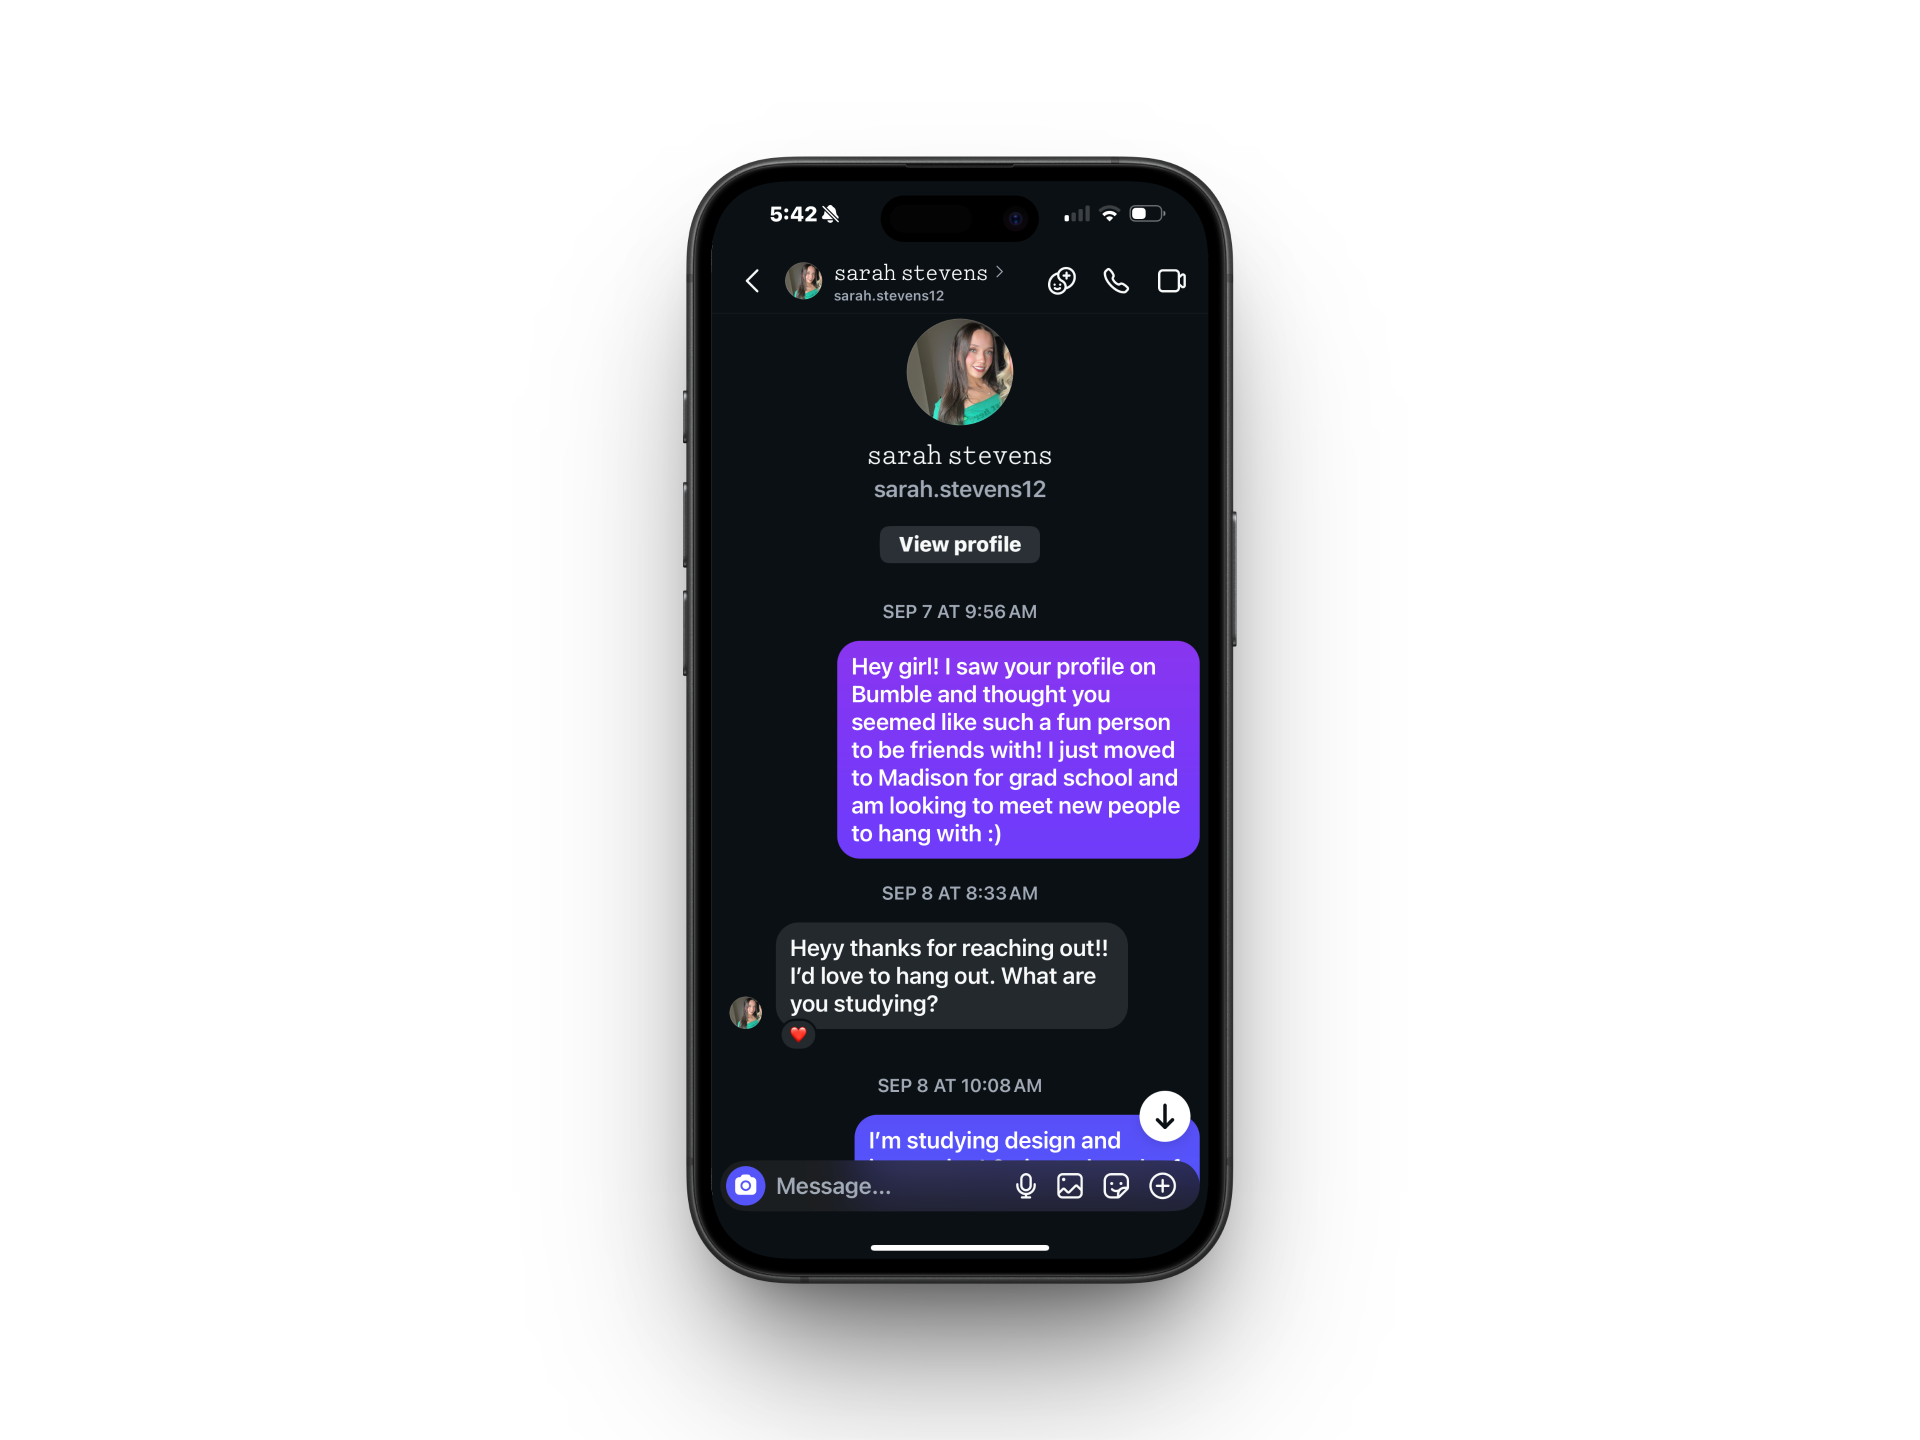
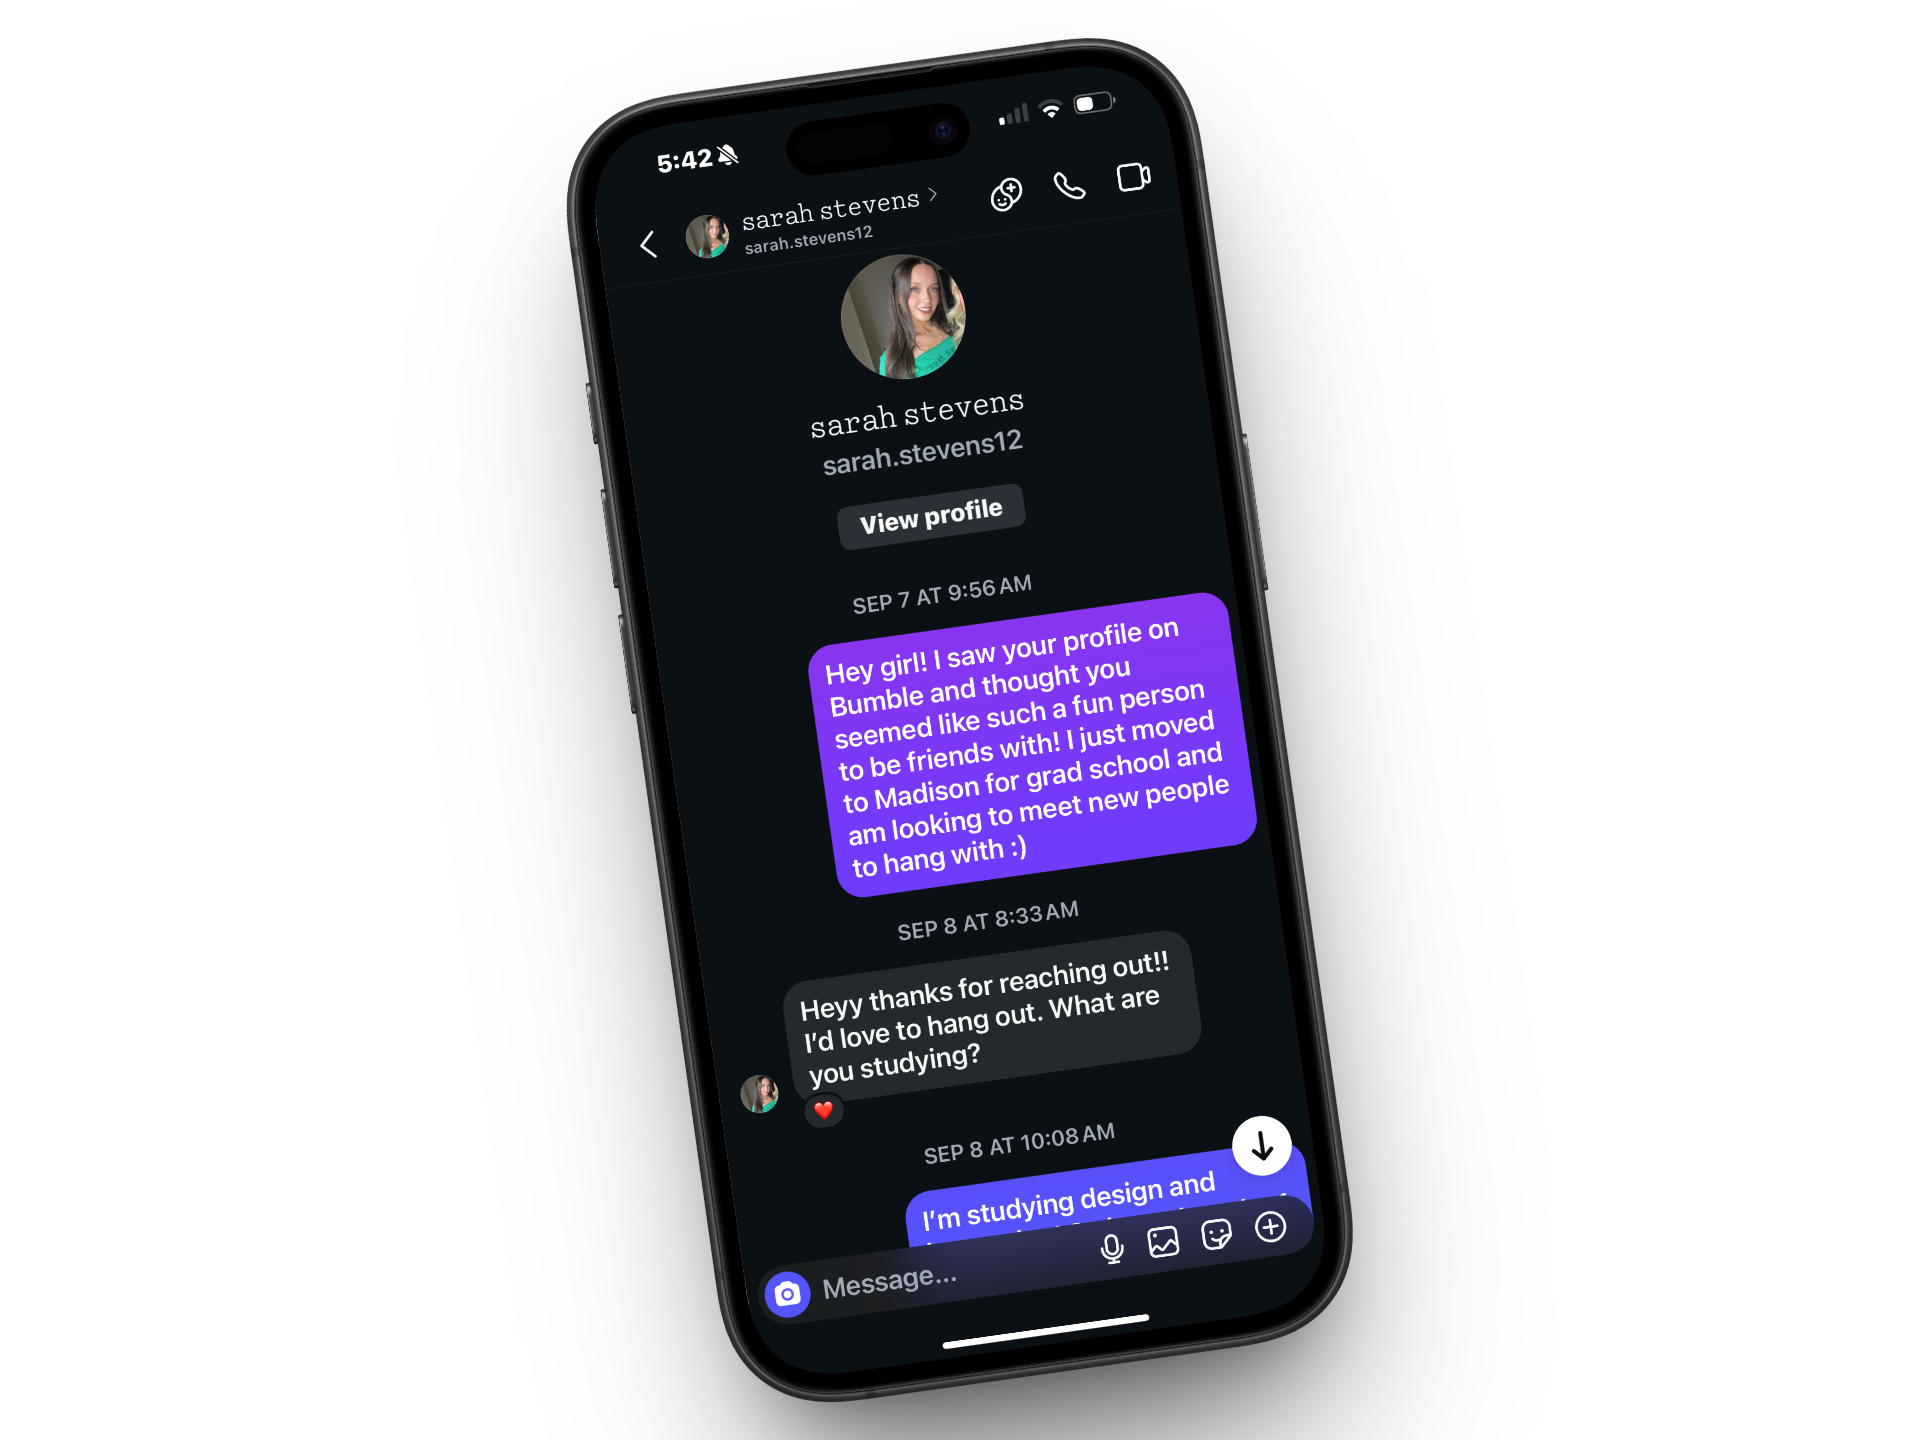
Swap in new BFF assets: polished OOH photos, floating phone renders
- Billboard and bus wrap images replaced with polished versions (both
  now consistently read "Find your group chat IRL," fixing the
  remaining "yur" typo everywhere, including the reflection copy).
- Phone screenshots replaced with transparent floating-phone renders
  (no background/border box needed) -- the Instagram DM with Sarah and
  a combined two-up render of the Megan/Lexi matches, replacing the
  separate boxed screenshots.
- Birthday photo capped at max-w-md instead of full section width, and
  the yellow name-tag pins moved down to shoulder level so they no
  longer sit on top of anyone's face.

Changed region(s): [[0.2812, 0.0, 0.75, 1.0], [0.5312, 0.1875, 0.5625, 0.2188]]

diff --git a/src/components/bumble/MyStorySection.tsx b/src/components/bumble/MyStorySection.tsx
@@ -3,26 +3,22 @@ import { Reveal } from '@/components/ui/Reveal'
 import { Lightbox } from '@/components/ui/Lightbox'
 import { cn } from '@/lib/utils'
 import instagramSarah from '@/assets/images/projects/bumble-bff-concept/proof-instagram-sarah.png'
-import friendMegan from '@/assets/images/projects/bumble-bff-concept/proof-friend-megan.png'
-import friendLexi from '@/assets/images/projects/bumble-bff-concept/proof-friend-lexi.png'
+import friends from '@/assets/images/projects/bumble-bff-concept/proof-friends.png'
 import birthday from '@/assets/images/projects/bumble-bff-concept/proof-birthday.jpg'
 
 const imageById: Record<string, string> = {
   'instagram-sarah': instagramSarah,
-  'friend-megan': friendMegan,
-  'friend-lexi': friendLexi,
+  friends: friends,
 }
 
 type Story = (typeof bumbleConcept)['myStory']
 
 function BeatImages({ images }: { images: string[] }) {
   return (
-    <div className={cn('flex gap-3', images.length > 1 && 'flex-row')}>
+    <div className="mx-auto flex max-w-sm justify-center">
       {images.map((id) => (
         <Lightbox key={id} src={imageById[id]} alt="">
-          <div className="overflow-hidden rounded-2xl border border-line shadow-[0_20px_50px_rgba(0,0,0,0.35)]">
-            <img src={imageById[id]} alt="" className="h-auto w-full" loading="lazy" />
-          </div>
+          <img src={imageById[id]} alt="" className="h-auto w-full" loading="lazy" />
         </Lightbox>
       ))}
     </div>
@@ -56,7 +52,7 @@ export function MyStorySection({ story }: { story: Story }) {
               >
                 <div className="md:w-1/2">
                   <BeatImages images={beat.images} />
-                  <p className="mt-3 text-xs text-fg-muted">{beat.caption}</p>
+                  <p className="mt-3 text-center text-xs text-fg-muted">{beat.caption}</p>
                 </div>
                 <div className="md:w-1/2">
                   <p className="text-base leading-relaxed text-fg-muted sm:text-lg">{beat.text}</p>
@@ -75,18 +71,18 @@ export function MyStorySection({ story }: { story: Story }) {
         </div>
 
         <Reveal delay={0.1}>
-          <div className="flex flex-col gap-3">
+          <div className="mx-auto flex max-w-md flex-col gap-3">
             <div className="relative overflow-hidden rounded-3xl border border-line shadow-[0_30px_70px_rgba(0,0,0,0.4)]">
               <img src={birthday} alt={story.finale.caption} className="h-auto w-full" loading="lazy" />
               {story.finale.tags.map((tag, index) => (
                 <div
                   key={index}
-                  className="group absolute -translate-x-1/2 -translate-y-1/2"
+                  className="absolute -translate-x-1/2 -translate-y-1/2"
                   style={{ left: `${tag.xPct}%`, top: `${tag.yPct}%` }}
                 >
-                  <span className="absolute left-1/2 top-1/2 h-4 w-4 -translate-x-1/2 -translate-y-1/2 animate-ping rounded-full bg-acid/60" />
-                  <span className="relative block h-4 w-4 rounded-full border-2 border-ink bg-acid shadow-[0_0_0_2px_rgba(166,255,77,0.4)]" />
-                  <span className="absolute left-1/2 top-full mt-1.5 -translate-x-1/2 whitespace-nowrap rounded-full bg-acid px-2.5 py-1 font-mono text-[10px] font-bold uppercase tracking-wider text-ink shadow-[0_4px_12px_rgba(0,0,0,0.3)]">
+                  <span className="absolute left-1/2 top-1/2 h-3 w-3 -translate-x-1/2 -translate-y-1/2 animate-ping rounded-full bg-acid/60" />
+                  <span className="relative block h-3 w-3 rounded-full border-2 border-ink bg-acid shadow-[0_0_0_2px_rgba(166,255,77,0.4)]" />
+                  <span className="absolute left-1/2 top-full mt-2 -translate-x-1/2 whitespace-nowrap rounded-full bg-acid px-2 py-0.5 font-mono text-[9px] font-bold uppercase tracking-wider text-ink shadow-[0_4px_12px_rgba(0,0,0,0.3)]">
                     {tag.name}
                   </span>
                 </div>

diff --git a/src/data/bumbleConcept.ts b/src/data/bumbleConcept.ts
@@ -12,7 +12,7 @@ export const bumbleConcept = {
       },
       {
         text: 'Through BFF I also met a handful of other amazing women, like Megan and Lexi, who I still go out with regularly. I still open the app to meet more people like them.',
-        images: ['friend-megan', 'friend-lexi'],
+        images: ['friends'],
         caption: 'Two of the friends I matched and connected with',
       },
     ],
@@ -24,11 +24,11 @@ export const bumbleConcept = {
       image: 'birthday',
       caption: 'My birthday, surrounded by the friends Bumble BFF gave me.',
       tags: [
-        { name: 'Name?', xPct: 8, yPct: 42 },
-        { name: 'Name?', xPct: 22, yPct: 45 },
-        { name: 'Name?', xPct: 58, yPct: 38 },
-        { name: 'Name?', xPct: 70, yPct: 35 },
-        { name: 'Name?', xPct: 84, yPct: 32 },
+        { name: 'Name?', xPct: 6, yPct: 48 },
+        { name: 'Name?', xPct: 19, yPct: 50 },
+        { name: 'Name?', xPct: 57, yPct: 45 },
+        { name: 'Name?', xPct: 68, yPct: 43 },
+        { name: 'Name?', xPct: 82, yPct: 40 },
       ],
     },
   },
@@ -36,7 +36,7 @@ export const bumbleConcept = {
   disclaimer:
     "Self-initiated concept project, built to demonstrate campaign thinking for a design + copywriting role. Not commissioned by, affiliated with, endorsed by, or reviewed by Bumble. All copy below is my own, written for this exercise, not final Bumble marketing.",
 
-  bigIdea: 'Find yur group chat IRL.',
+  bigIdea: 'Find your group chat IRL.',
 
   brief:
     "The friendships I actually made through Bumble BFF didn't stay one-on-one, they turned into a group chat. So instead of the usual \"meet someone new\" pitch, the campaign leans straight into that: every execution is styled around a real-feeling group chat, and the messages running through them are close to word-for-word from actual threads with friends I met on the app.",
@@ -56,7 +56,7 @@ export const bumbleConcept = {
       channel: 'OOH — Bus wrap',
       format: 'billboard' as const,
       image: 'bff-buswrap.png',
-      headline: 'Find yur group chat IRL.',
+      headline: 'Find your group chat IRL.',
       support: '',
       why: 'Same line, a completely different context: a bus wrap competes with an actual moving city instead of an empty skyline, so the chat bubbles have to catch a glance the billboard never had to fight for.',
     },
@@ -81,7 +81,7 @@ export const bumbleConcept = {
   ],
 
   rationale:
-    "Find yur group chat IRL came out of noticing that my own Bumble BFF friendships stopped feeling like one-on-one matches almost immediately; they became a group chat, then a standing plan, then people I actually call. The voice stays conversational and a little messy on purpose, the way real group chats are, and each execution adapts to where someone actually encounters it: a billboard with room to let a thread breathe, a bus wrap competing with a real street, something that reads like a text from a friend on social, and something short enough to survive being a phone-lock-screen interruption. One idea, one real feeling, carried across every context.",
+    "Find your group chat IRL came out of noticing that my own Bumble BFF friendships stopped feeling like one-on-one matches almost immediately; they became a group chat, then a standing plan, then people I actually call. The voice stays conversational and a little messy on purpose, the way real group chats are, and each execution adapts to where someone actually encounters it: a billboard with room to let a thread breathe, a bus wrap competing with a real street, something that reads like a text from a friend on social, and something short enough to survive being a phone-lock-screen interruption. One idea, one real feeling, carried across every context.",
 
   skills: ['Campaign Concepting', 'Copywriting', 'OOH Design', 'Social Content', 'Brand Voice', 'Creative Direction'],
 }
